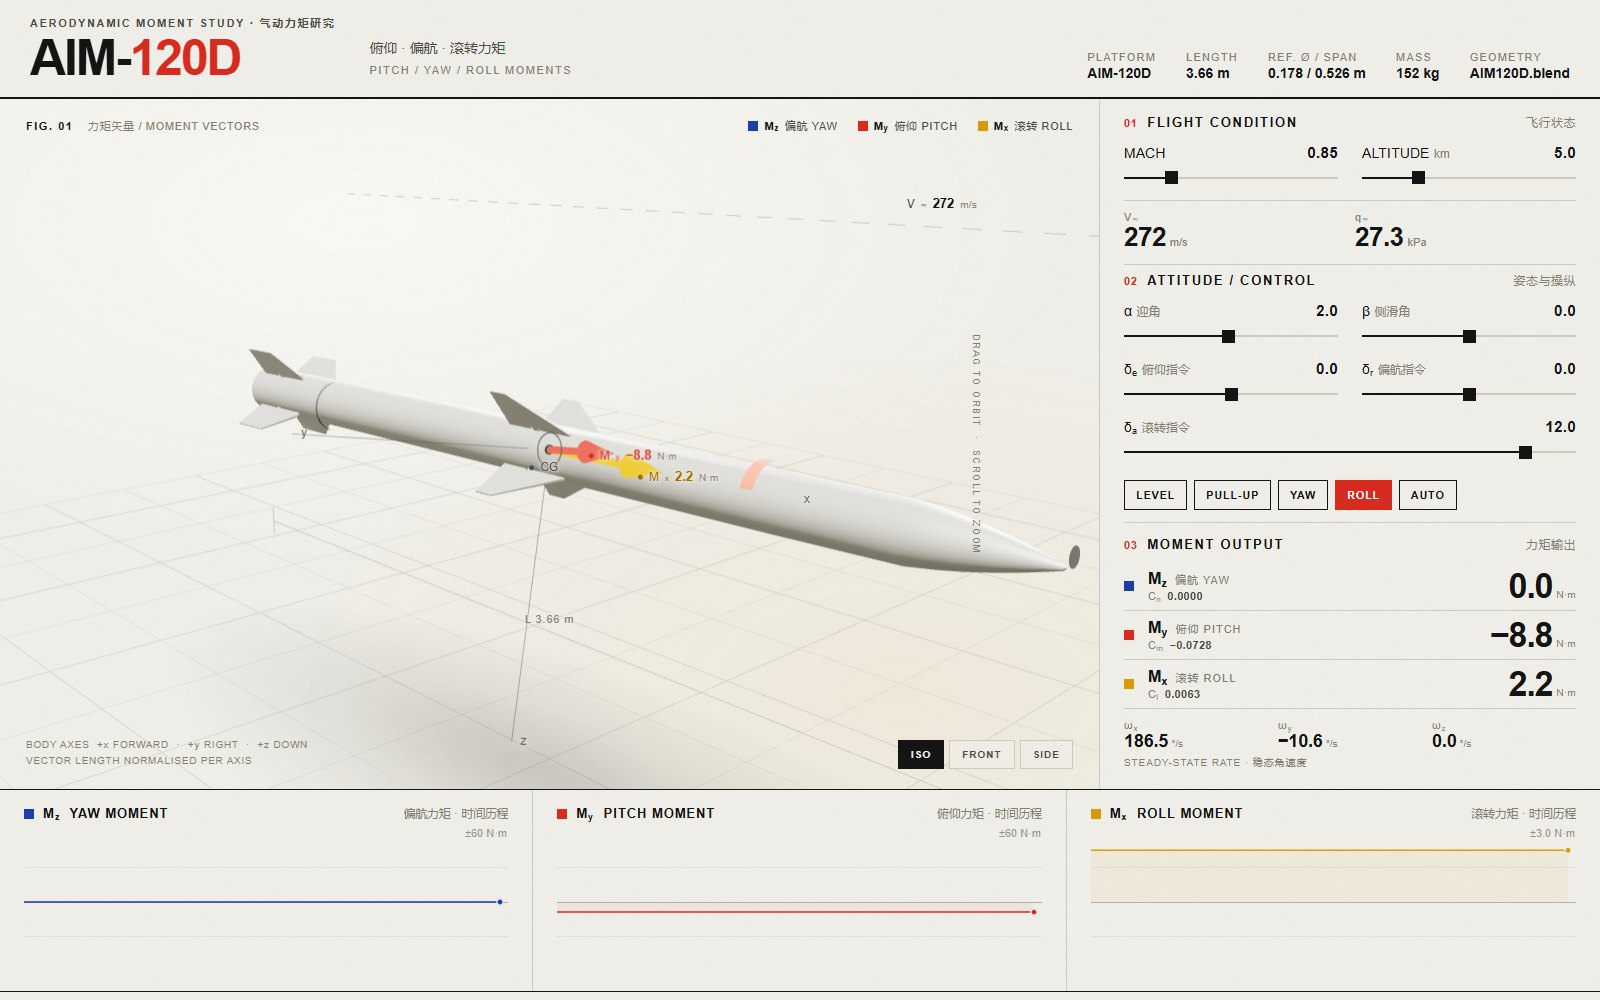
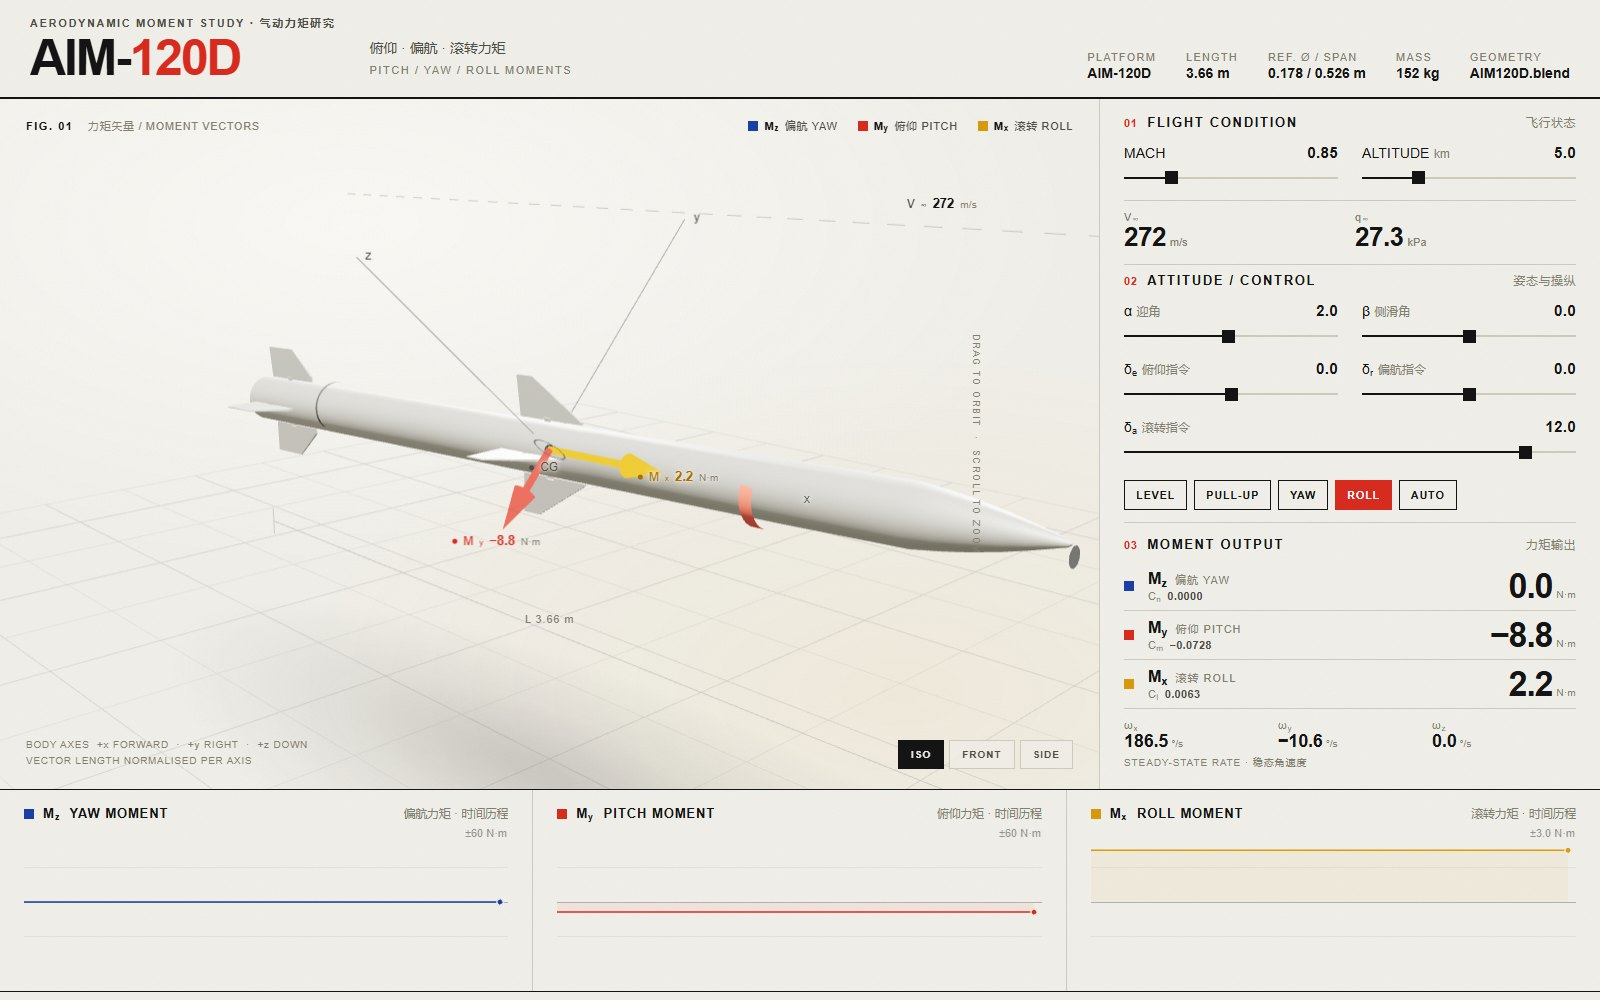
fix: no autoplay on load; AUTO runs only when clicked

Changed region(s): [[0.1562, 0.341, 0.6562, 0.589]]

diff --git a/js/app.js b/js/app.js
@@ -231,7 +231,6 @@
     if (qs.get('preset')) setPreset(qs.get('preset'), true);
     if (qs.get('view')) scene.setView(qs.get('view'));
     if (qs.get('static') === '1') {
-      scene.autoRotate = false;
       stopAuto();
     }
 
@@ -247,11 +246,6 @@
       resizeTimer = setTimeout(onResize, 80);
     });
     onResize();
-
-    // autoplay for a lively first impression
-    if (qs.get('static') !== '1') {
-      setTimeout(function () { if (!auto.on) startAuto(); }, 2600);
-    }
 
     last = performance.now();
     window.__APP = { scene: scene, charts: charts, state: state, aero: Aero, getLast: function () { return lastRes; } };
